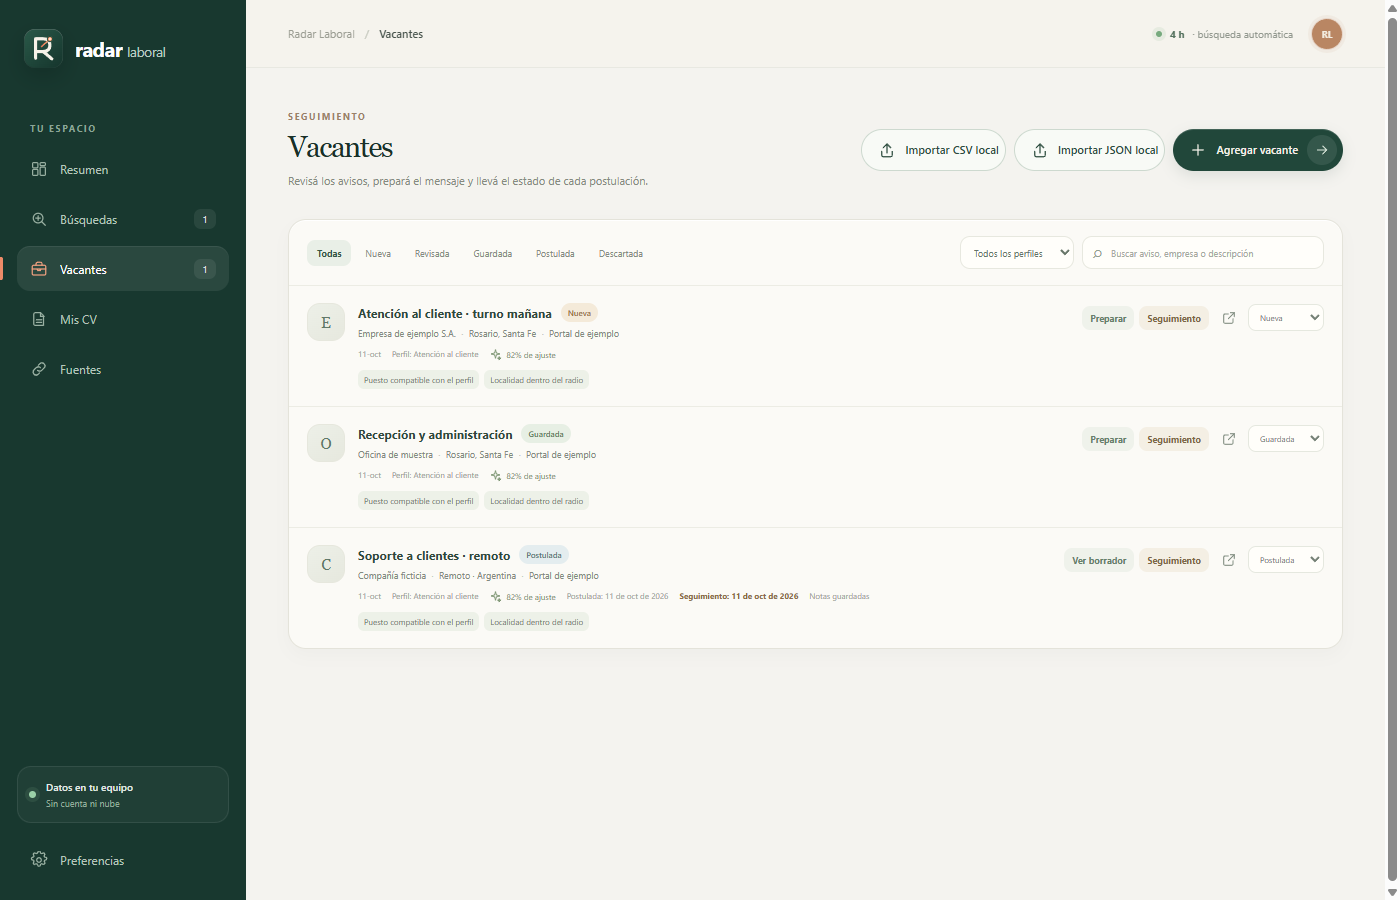
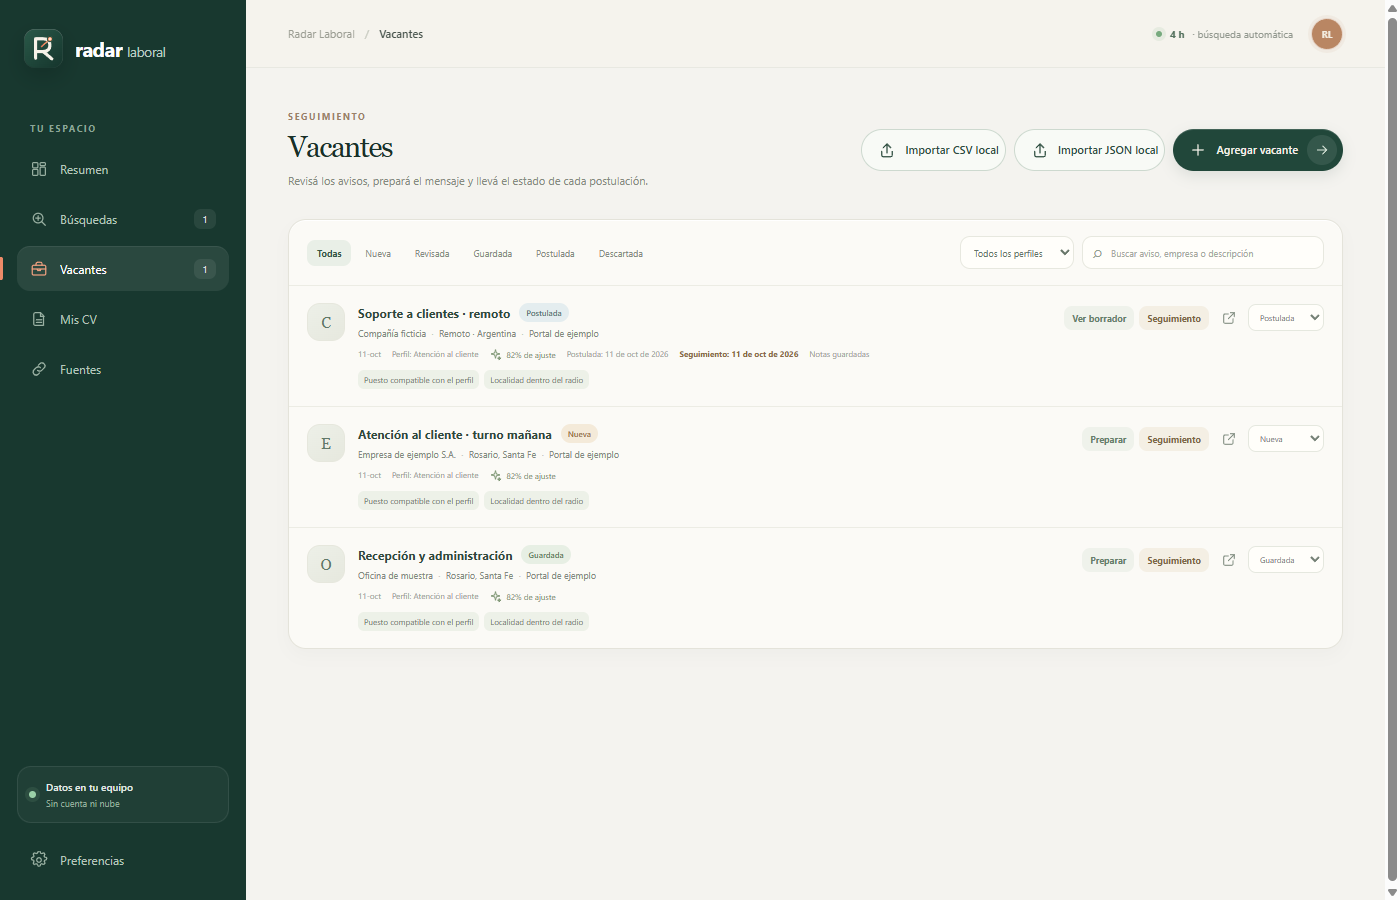
release: prepare v0.4.147 update validation

diff --git a/docs/mvp-audit.md b/docs/mvp-audit.md
@@ -1,6 +1,6 @@
 # Auditoría del MVP
 
-Estado revisado el 11 de octubre de 2026 sobre la version 0.4.146. Esta auditoria conserva la evidencia funcional reunida desde 0.4.139 y registra los cambios y verificaciones de la version actual.
+Estado revisado el 11 de octubre de 2026 sobre la version 0.4.147. Esta auditoria conserva la evidencia funcional reunida desde 0.4.139 y registra los cambios y verificaciones de la version actual.
 
 ## 0.4.146 - cierre correcto del actualizador
 
@@ -16,7 +16,7 @@ Preferencias incorpora un switch accesible para alternar entre tema claro y oscu
 
 La compilación de 0.4.145 pasa typecheck, lint, 98 pruebas y el empaquetado NSIS x64. La captura de la guía valida ambos temas y la persistencia tras reiniciar la aplicación.
 
-El smoke NSIS x64 instaló 0.4.145 en una carpeta aislada, confirmó que la barra lateral carga el icono, que el switch accesible cambia entre claro y oscuro y que la preferencia queda guardada. También recorrió seis pantallas en colores forzados, comprobó SQLite (integrity_check = ok), verificó 176 enlaces Markdown y desinstaló con código 0 conservando los datos sintéticos. El chequeo dentro de la app respondió que 0.4.145 estaba al día porque la versión publicada aún era 0.4.144; la descarga entre versiones se verificará tras publicar 0.4.145. El instalador y el ejecutable no tienen firma Authenticode.
+El smoke NSIS x64 instaló 0.4.145 en una carpeta aislada, confirmó que la barra lateral carga el icono, que el switch accesible cambia entre claro y oscuro y que la preferencia queda guardada. También recorrió seis pantallas en colores forzados, comprobó SQLite (integrity_check = ok), verificó 176 enlaces Markdown y desinstaló con código 0 conservando los datos sintéticos. La prueba real de actualización 0.4.144 → 0.4.145 confirmó que el manifiesto firmado se acepta y que NSIS reemplaza el paquete; también mostró que el setup interactivo vuelve a abrir la app. La versión 0.4.146 cambia la instalación a modo silencioso y la comprobación entre versiones queda documentada en `QA-INAPP-UPDATE.json`. El instalador y el ejecutable no tienen firma Authenticode.
 
 La versión 0.4.144 todavía usaba el icono naranja de cámara en la barra lateral, la bandeja, la ventana, el instalador, el desinstalador y el README. La versión 0.4.145 lo reemplaza por el símbolo propio descrito arriba.
 
